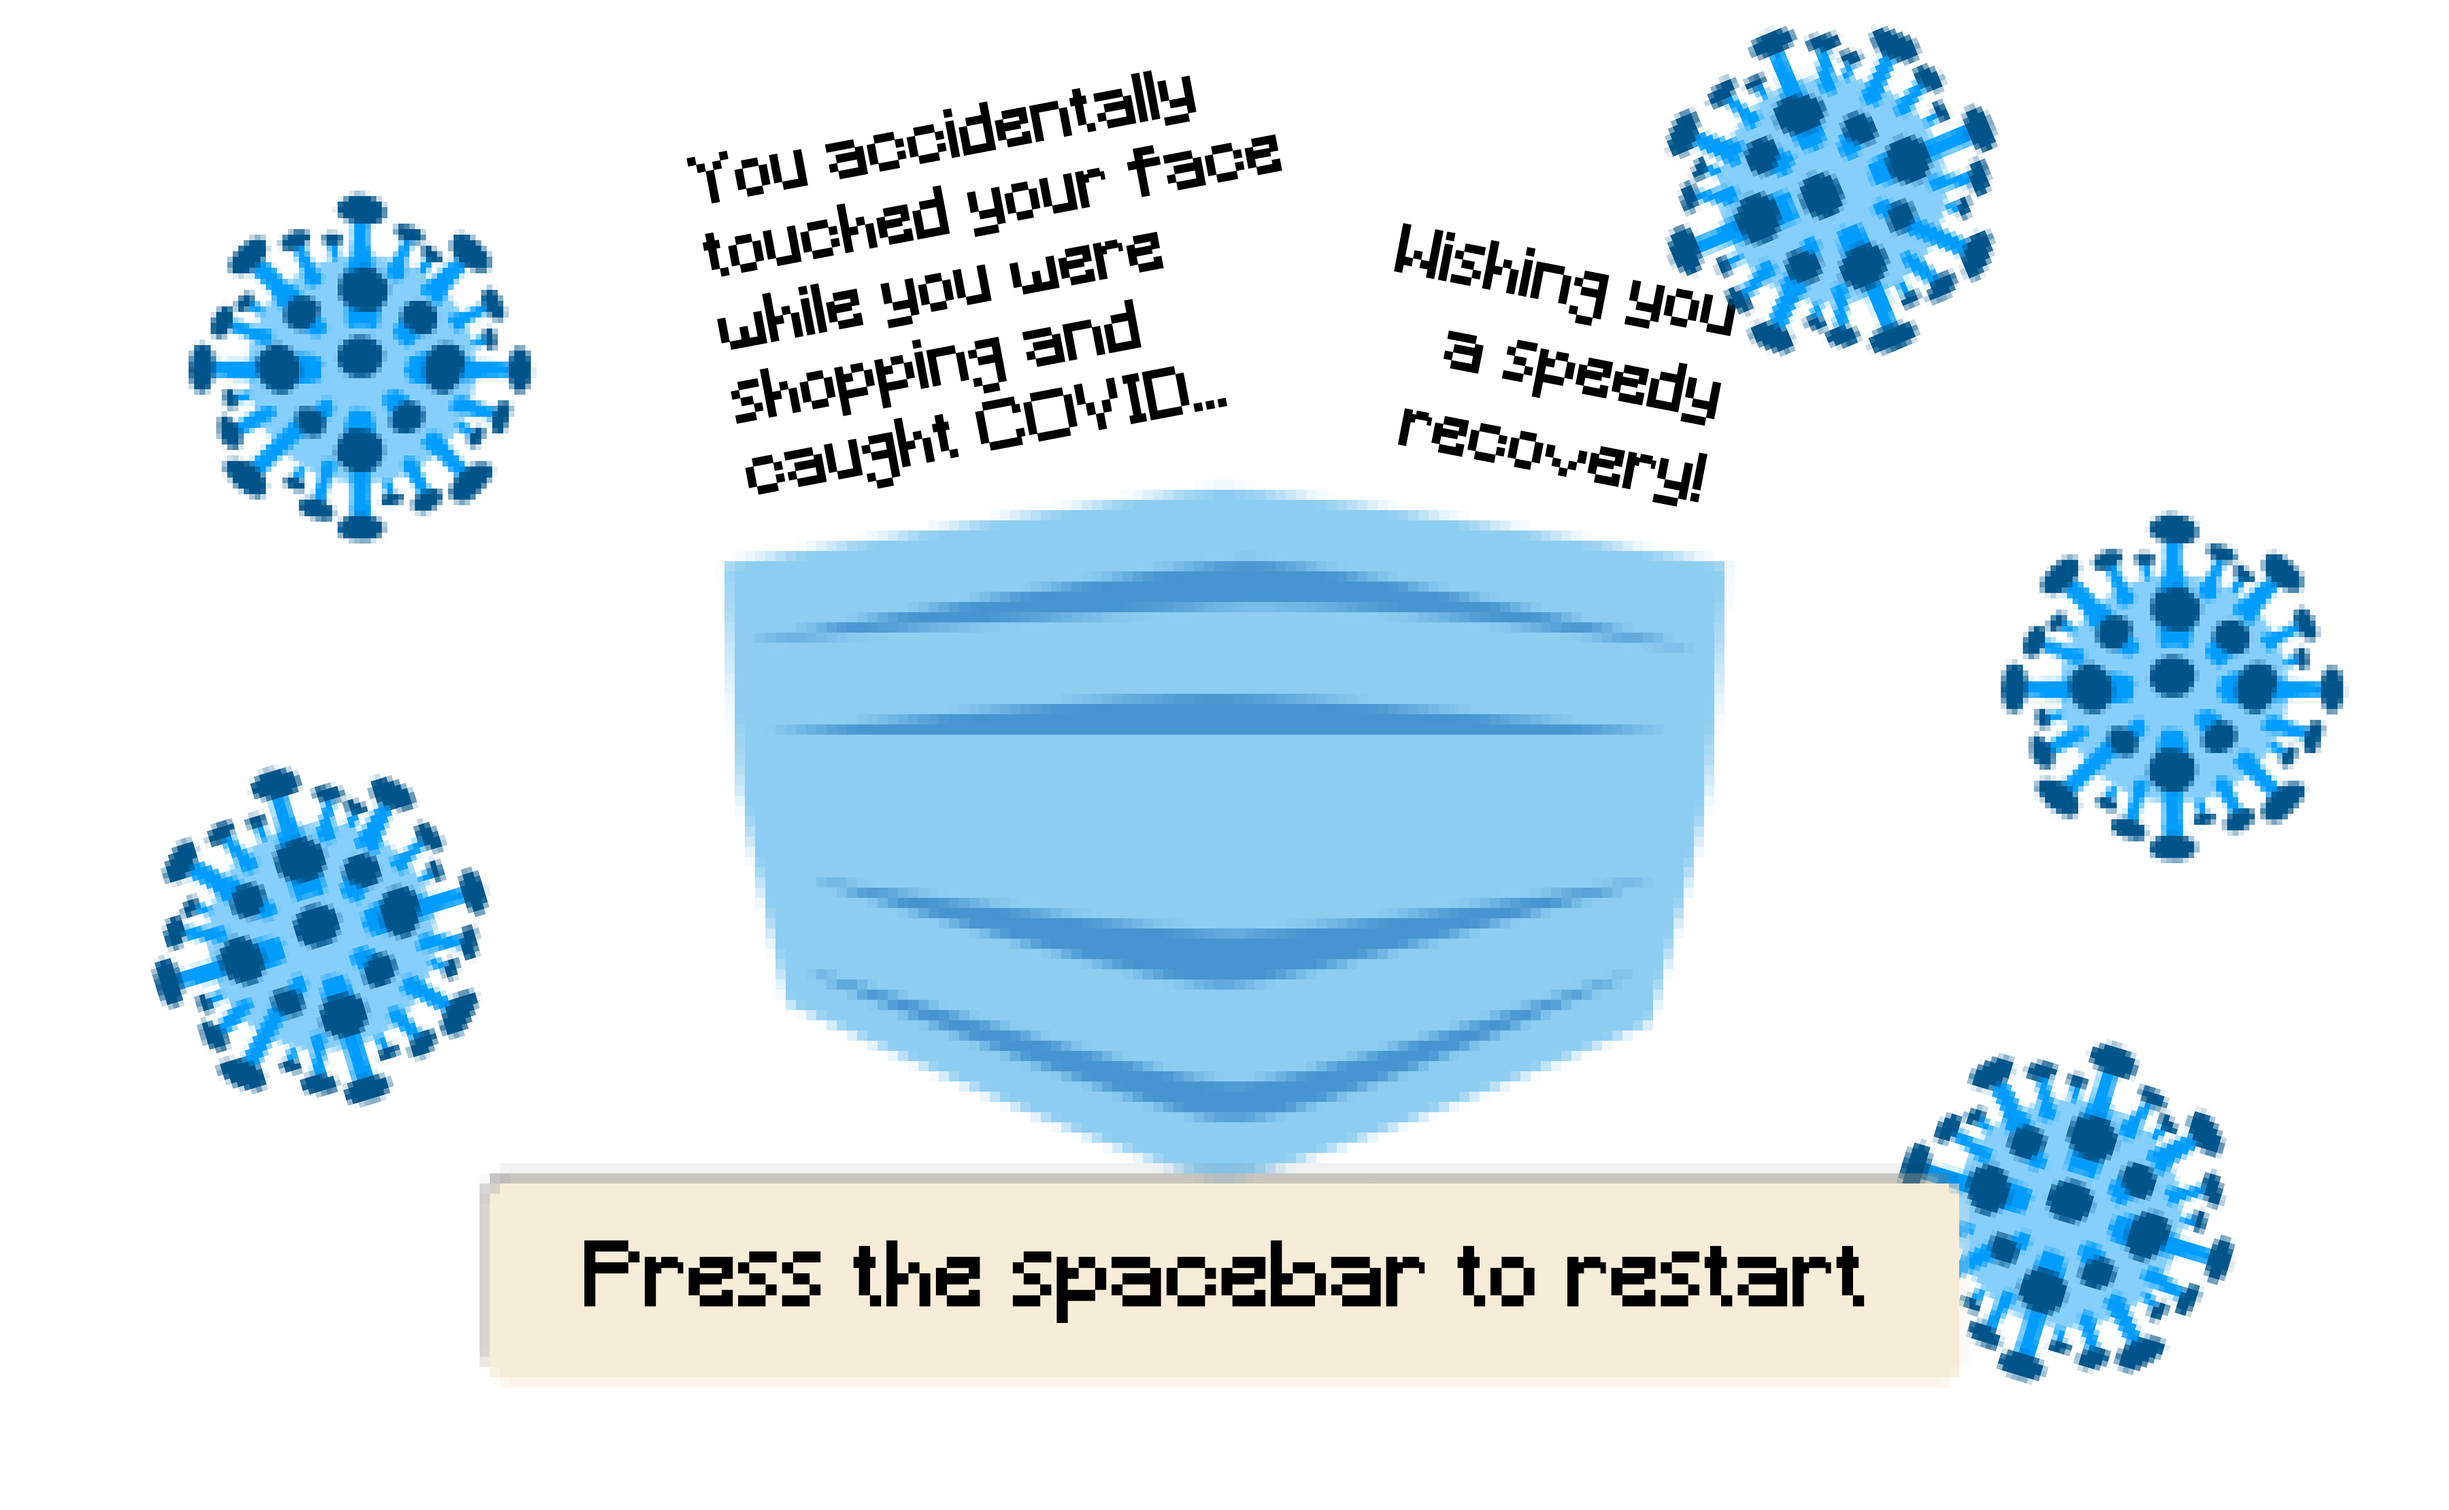
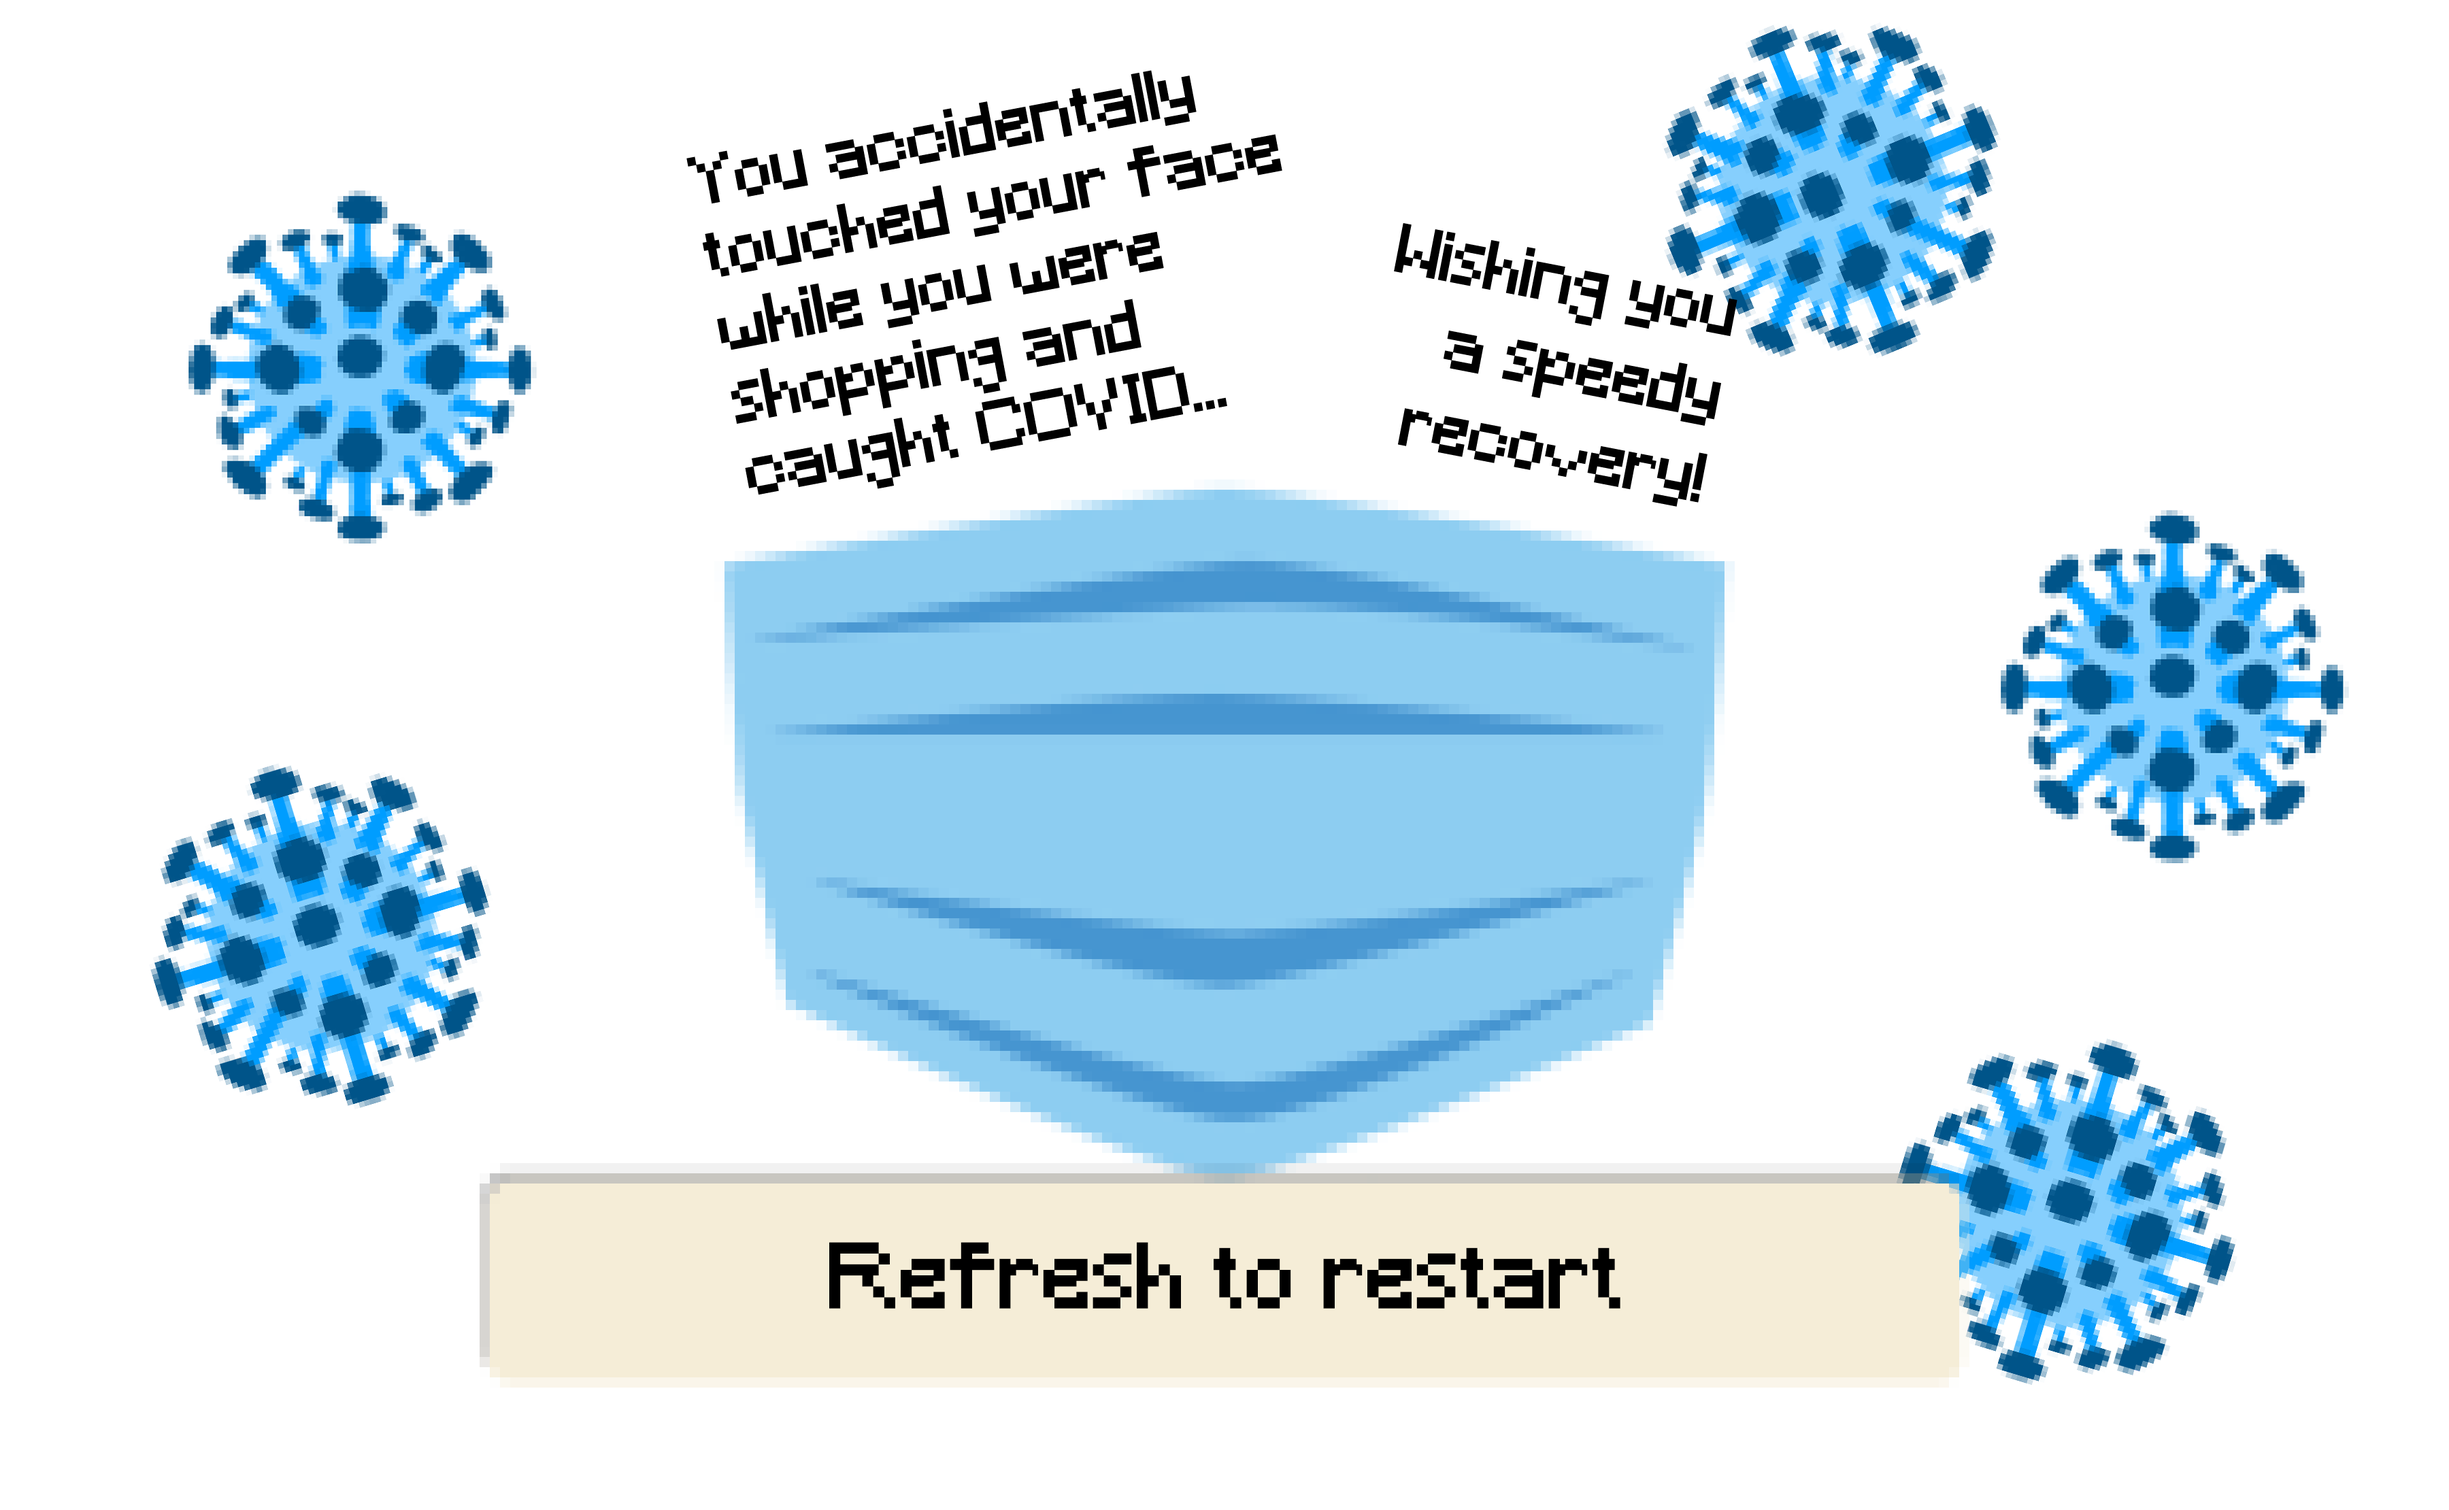
P1: Replaced all ending images

Changed region(s): [[0.2178, 0.8081, 0.7778, 0.8703]]

diff --git a/projects/project1/js/script.js b/projects/project1/js/script.js
@@ -48,7 +48,7 @@ let family = {
   height: 400,
   vy: 1,
   vx: 0,
-  ay: 0.8,
+  ay: 0.7,
   speed: 1,
 };
 
@@ -70,7 +70,7 @@ let hobby = {
   height: 430,
   vy: 1,
   vx: 0,
-  ay: 1.5,
+  ay: 1.2,
   speed: 3,
 };
 
@@ -81,7 +81,7 @@ let covid = {
   height: 400,
   vy: 1,
   vx: 0,
-  ay: 1.2,
+  ay: 1,
   speed: 3,
 };
 
@@ -92,7 +92,7 @@ let school = {
   height: 300,
   vy: 1,
   vx: 0,
-  ay: 0.5,
+  ay: 0.4,
   speed: 3,
 };
 
@@ -305,14 +305,14 @@ function handleInput() {
     family.vy = -20 * family.ay;
   }
   else {
-    family.vy = 2;
+    family.vy = 2 * 1.2;
   }
 
   if (keyIsDown(86)) {
     health.vy = -20 * health.ay;
   }
   else {
-    health.vy = 2;
+    health.vy = 2 * 1.7;
   }
 
   if (keyIsDown(66)) {
@@ -326,14 +326,14 @@ function handleInput() {
     covid.vy = -20 * covid.ay;
   }
   else {
-    covid.vy = 2;
+    covid.vy = 2 * 1.3;
   }
 
   if (keyIsDown(77)) {
     school.vy = -20 * school.ay;
   }
   else {
-    school.vy = 2;
+    school.vy = 2 * 1.5;
   }
 }
 
@@ -354,12 +354,6 @@ function checkOverlap() {
   if (school.y > 1110)
     state = `end5`;
   }
-
-function keyIsDown() {
-  if (state === `end1`) {
-    state = `title`;
-  }
-}
 
 function mousePressed() {
   if (state === `title`) {
